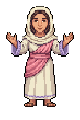
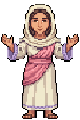
Enlarge Maria sprite and anchor feet to ground in world

diff --git a/apps/mobile-app/app/(tabs)/world.tsx b/apps/mobile-app/app/(tabs)/world.tsx
@@ -138,8 +138,8 @@ export default function WorldScreen() {
   const jesusH = Math.max(78, Math.floor(worldSize.height * 0.098));
   const jesusLeft = clamp01(jesusAnchor.nx) * Math.max(0, worldSize.width - jesusW);
   const jesusTop = clamp01(jesusAnchor.ny) * Math.max(0, worldSize.height - jesusH);
-  const mariaW = Math.max(44, Math.floor(jesusW * 0.84));
-  const mariaH = Math.max(68, Math.floor(jesusH * 0.86));
+  const mariaW = Math.max(50, Math.floor(jesusW * 0.95));
+  const mariaH = Math.max(75, Math.floor(jesusH * 0.95));
   const mariaLeft = clamp01(mariaAnchor.nx) * Math.max(0, worldSize.width - mariaW);
   const mariaTop = clamp01(mariaAnchor.ny) * Math.max(0, worldSize.height - mariaH);
   const mariaUnlocked = attendanceReward?.mariaUnlocked ?? false;
